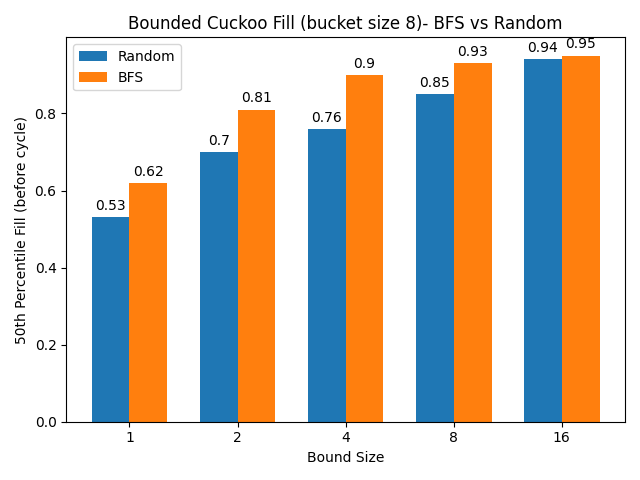
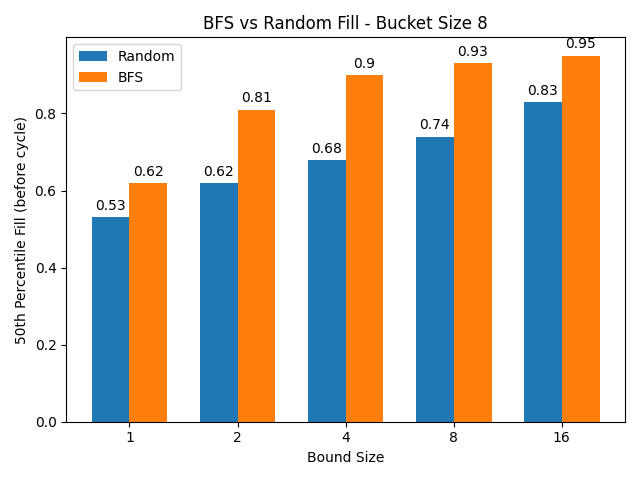
wtf is happening today

diff --git a/locality_hash/cuckoo.py b/locality_hash/cuckoo.py
@@ -1,6 +1,7 @@
 import random
 from hash import *
 import numpy as np
+import copy
 
 class entry:
     def __init__(self, key):
@@ -139,6 +140,30 @@ def normalize_path(path, suffix_size, table_size):
                 path[j].bucket_index+=table_size
     return path
 
+def paths_to_ranges(paths, suffix_size, table_size):
+    ranges=[]
+    for path in paths:
+        path=normalize_path(path, suffix_size, table_size)
+        #todo this is a weird patterns, that overloads the path_element class, consider revising.
+        #trim the first element from the path
+        path=path[1:]
+        r = max(path) - min(path)
+        if r >= 0:
+            ranges.append(r)
+    return ranges
+
+def min_range_index(paths, suffix_size, table_size):
+    p2 = copy.deepcopy(paths)
+    ranges = paths_to_ranges(p2, suffix_size, table_size)
+    min_index=0
+    min_range=ranges[0]
+    for i in range(1, len(ranges)-1):
+        if ranges[i] < min_range:
+            min_index=i
+            min_range=ranges[i]
+    return min_index
+
+
 def key_causes_a_path_loop(path, key):
     for pe in path:
         if pe.key == key:
@@ -262,12 +287,14 @@ def bucket_cuckoo_bfs_insert(tables, table_size, location_func, value, bucket_si
     #begin by performing bfs
     #path queue contains all active search paths. This is useful, but not optimal for reconstructing paths.
 
-    insert_paths=bucket_cuckoo_bfs(tables, table_size, location_func, value, bucket_size, suffix, max_depth=5)
+    insert_paths=bucket_cuckoo_bfs(tables, table_size, location_func, value, bucket_size, suffix, max_depth=6)
     if len(insert_paths) == 0:
         return []
 
     #choose a random insert path from the available options 
     insert_path = insert_paths[random.randint(0, len(insert_paths)-1)]
+    #min insert range
+    #insert_path = insert_paths[min_range_index(insert_paths, suffix, table_size)]
     #print("inserting: path:", end='')
     #print_path(insert_path)
 

diff --git a/presentation/004-Bounded_Cuckoo_Insert_Distance-Oct_25_2022/random_fill_bound.py b/presentation/004-Bounded_Cuckoo_Insert_Distance-Oct_25_2022/random_fill_bound.py
@@ -1,0 +1,33 @@
+import matplotlib.pyplot as plt
+import numpy as np
+
+#values taken from row 8 of experiment
+#002 bucket_vs_bound
+#005 bucekt_vs_bound_bfs
+
+labels = ['1', '2', '4', '8', '16', '32', '64']
+
+fifty = [128,128,128,128,128,128,128]
+ninety = [128,256,384,768,1536,3072,3840]
+ninety_nine = [128,256,512,1024,2048,4096,6656]
+
+x = np.arange(len(labels))  # the label locations
+width = 0.35  # the width of the bars
+
+fig, ax = plt.subplots()
+ax.plot(labels, fifty, label='50th Percentile')
+ax.plot(labels, ninety, label='90th Percentile')
+ax.plot(labels, ninety_nine, label='99th Percentile')
+
+ax.set_title('Bounded Cuckoo Insert Distance (bucket size 8)')
+ax.set_xlabel('Bound Size')
+ax.set_ylabel('insert distance (bytes)')
+
+# Add some text for labels, title and custom x-axis tick labels, etc.
+ax.set_xticks(x, labels)
+ax.legend()
+
+fig.tight_layout()
+
+plt.savefig('insert_range_8.png')
+plt.savefig('insert_range_8.pdf')

diff --git a/presentation/005-BFS_Bounded_Cuckoo-Oct_27_2022/random_vs_bfs_fill_8.py b/presentation/005-BFS_Bounded_Cuckoo-Oct_27_2022/random_vs_bfs_fill_8.py
@@ -7,7 +7,7 @@ import numpy as np
 
 labels = ['1', '2', '4', '8', '16']
 bfs_mean = [0.62,0.81,0.9, 0.93, 0.95]
-dfs_random_mean = [0.53,0.7,0.76,0.85,0.94]
+dfs_random_mean = [0.53,0.62,0.68,0.74,0.83]
 
 x = np.arange(len(labels))  # the label locations
 width = 0.35  # the width of the bars
@@ -19,7 +19,7 @@ rects1 = ax.bar(x + width/2, bfs_mean, width, label='BFS')
 # Add some text for labels, title and custom x-axis tick labels, etc.
 ax.set_ylabel('50th Percentile Fill (before cycle)')
 ax.set_xlabel('Bound Size')
-ax.set_title('Bounded Cuckoo Fill (bucket size 8)- BFS vs Random')
+ax.set_title('BFS vs Random Fill - Bucket Size 8')
 ax.set_xticks(x, labels)
 ax.legend()
 

diff --git a/locality_hash/run_benchmarks.py b/locality_hash/run_benchmarks.py
@@ -264,7 +264,7 @@ def bfs_bucket_cuckoo_insert_range(memory, trials):
 
 
 memory=1024
-trials=1
+trials=16
 
 size_vs_bound_bucket_cuckoo(memory, trials)
 size_vs_bound_bfs_bucket_cuckoo(memory, trials)

diff --git a/presentation/006-table_size_experiments-Nov_4_2022/README.md b/presentation/006-table_size_experiments-Nov_4_2022/README.md
@@ -1,0 +1,20 @@
+# Introduction
+
+Today is not the best start to the day. I decided to see what happened if I made the table size bigger, and this happened.
+
+
+![memory_vs_fill](001_memory_vs_fill_bfs.png)
+
+Here the x-y in the legend is bucket size-suffix size. The real takeaway from this is that BFS starts to do worse with the bound as the table gets larger.
+
+My first instinct here is that because I've bounded the search, I am more likely to run into a cluster of values that stops me sooner. I think that my next step is to deepen the search and then try again with 4-4. In this first experiment the depth of search is set to 3 for speed.
+
+Actually perhaps I'll try dfs again and see if it holds up. If not I might be hosed.
+
+
+![memory_vs_fill](002_memory_vs_fill_dfs.png)
+
+Even Worse. I went back to the dfs variant because I assumed that it would be
+able to probe deeper into the table, but it seems that I was wrong. In this case the performance is even worse than I would have expected.
+
+The next step is to keep using DFS but to increase the search depth and see if that helps the results. Recall that the value used in the algorithmic improvements to cuckoo hash paper was 5.

diff --git a/presentation/005-BFS_Bounded_Cuckoo-Oct_27_2022/README.md b/presentation/005-BFS_Bounded_Cuckoo-Oct_27_2022/README.md
@@ -10,8 +10,13 @@ After completing the BFS algorithm I ran the same fill test that I ran before ru
 
 # Experiments
 
+Memory Size 1024, attempt to insert up to 95% while varying the suffix and
+bucket size. In this experiment I set the depth of bfs to 5. If a solution is
+found at a lower depth, only solutions of that depth are returned. I chose one of the solutions at random here.
 
 ![insert_heatmap](bucket_vs_bound_bfs.png)
+
+Note that the values here are a bit better than when we run at random.
 
 
 
